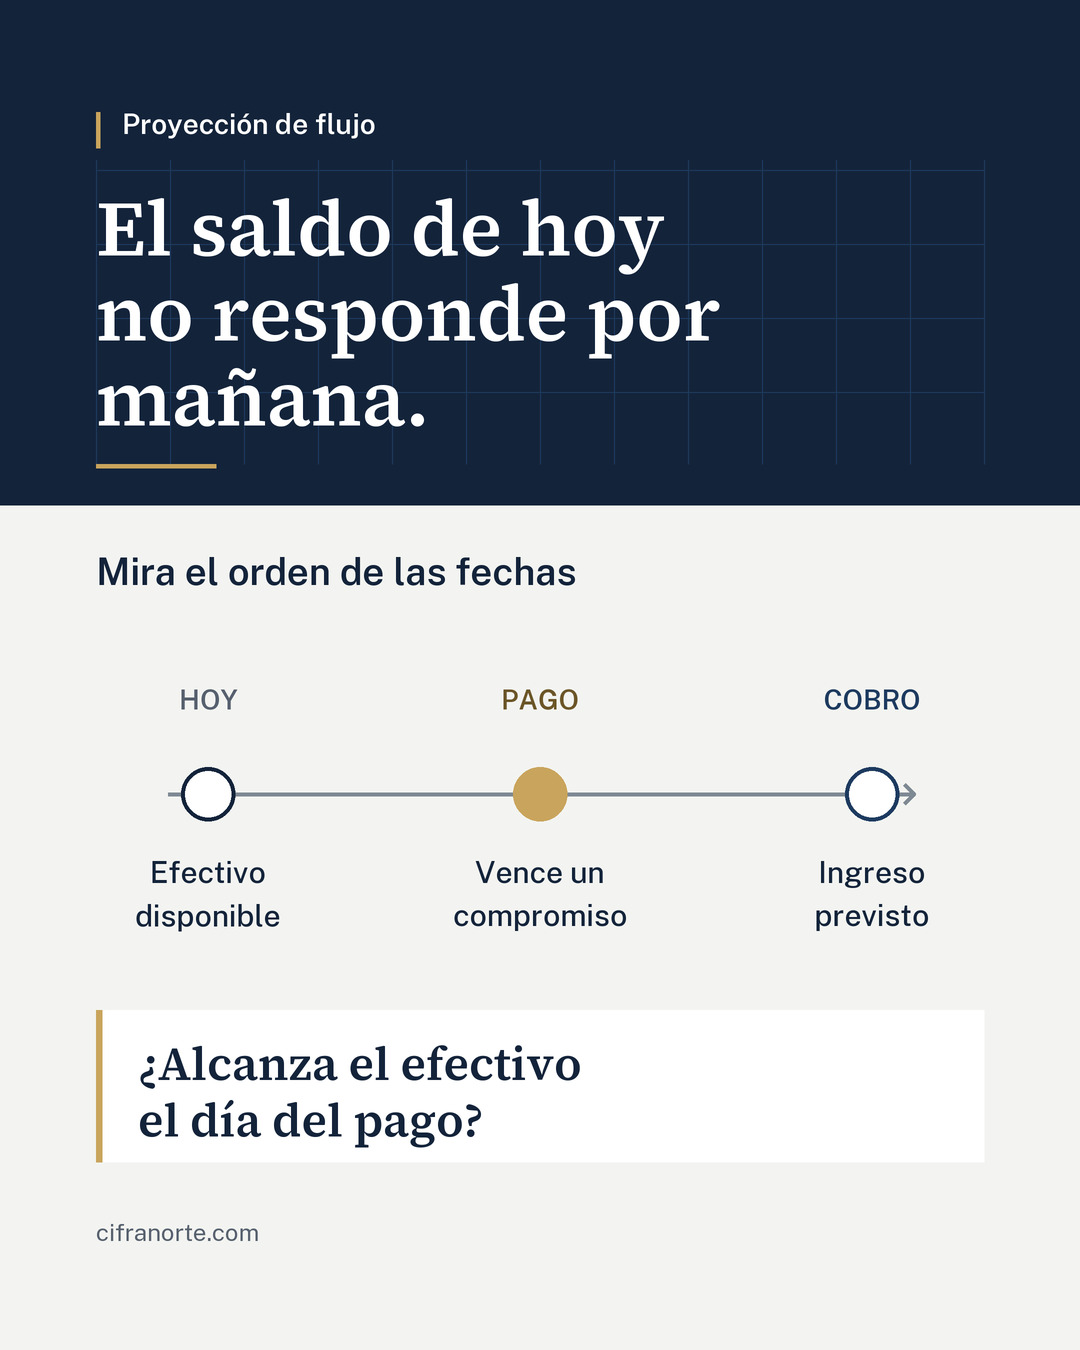
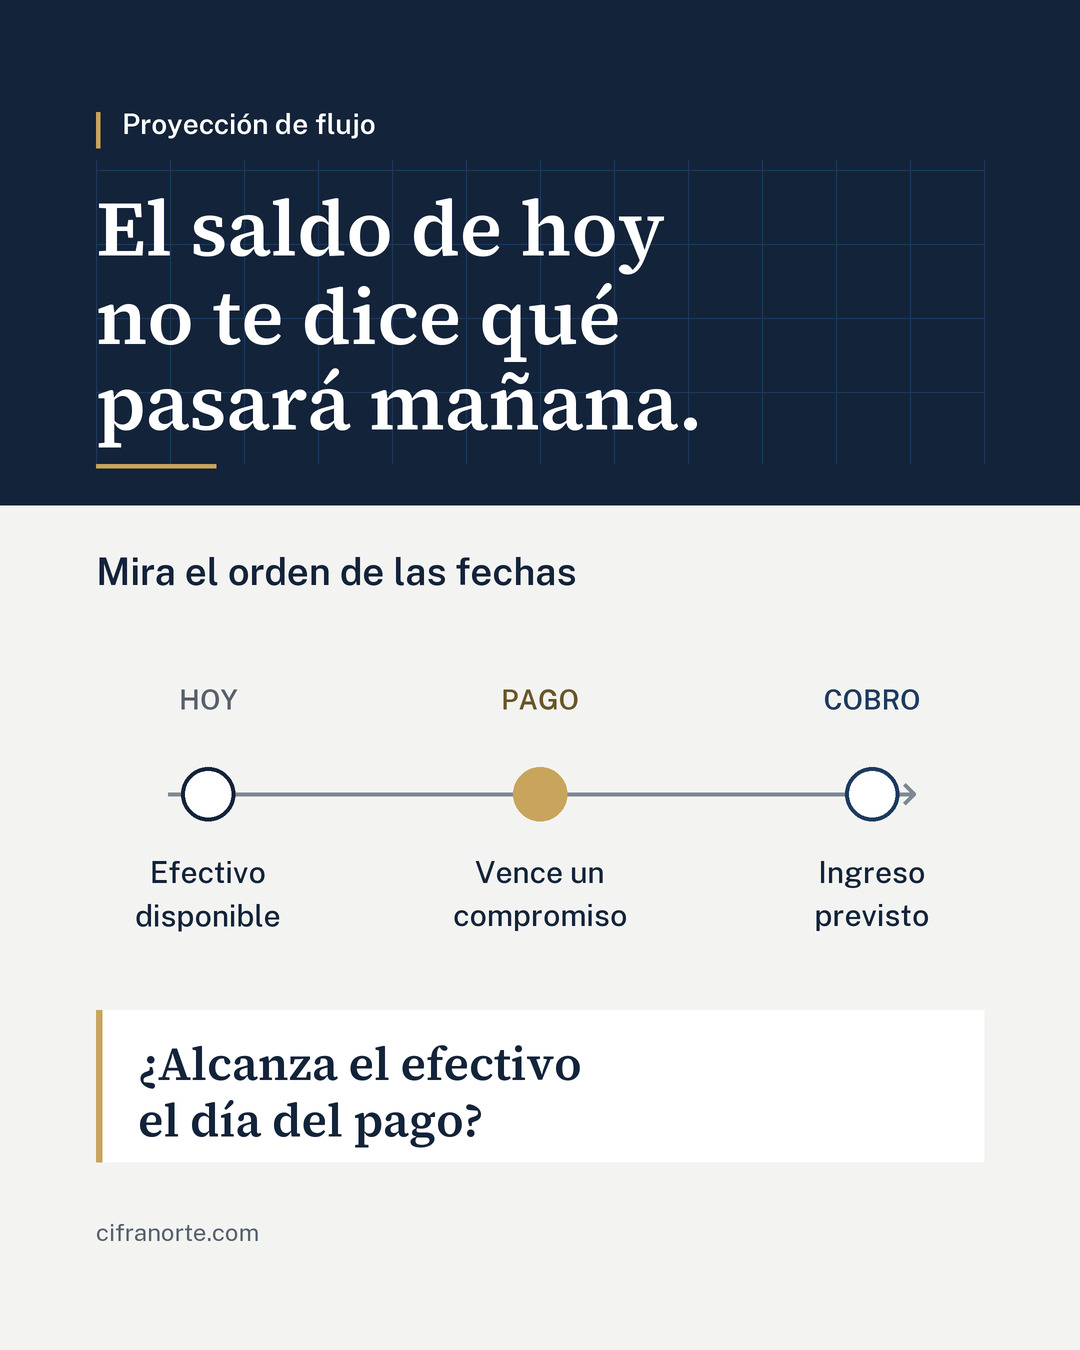
Afinar titular y apertura de IM02 Facebook tras dictamen

Changed region(s): [[0.0917, 0.1867, 0.6722, 0.3422]]

diff --git a/publicaciones/2026-10-10_facebook_IM02/REVISION.md b/publicaciones/2026-10-10_facebook_IM02/REVISION.md
@@ -50,3 +50,13 @@ Ninguna.
 **Listo para aprobación final de Hugo.** No hay correcciones necesarias. Las mejoras O1 a O4 son a criterio de Hugo; si aprueba alguna, ChatGPT la aplica y basta una comprobación breve.
 
 No modifiqué la imagen ni el copy, y no programé nada. Este dictamen no sustituye la aprobación de Hugo. Fecha editorial: 10 de octubre de 2026; horario sin aprobar.
+
+## Ajustes de claridad de ChatGPT tras el dictamen — 6 de octubre de 2026
+
+- **O1 aplicada:** el titular de `01.jpg` ahora dice «El saldo de hoy no te dice qué pasará mañana.». Conserva el sentido de que el saldo actual no anticipa los vencimientos futuros; la pregunta sobre suficiencia de efectivo el día del pago y el resto del gráfico siguen iguales.
+- **O2 aplicada:** la primera línea de `COPY.txt` ahora dice «Ver el saldo de hoy no basta para tomar las decisiones de mañana.». El resto del copy se conservó literalmente.
+- **O3 no aplicada:** el dominio ya aparece en el gráfico. Esta pieza educativa conserva una sola invitación a comentar al final del copy, sin añadir un llamado comercial.
+- **O4 no aplicada:** la retícula tenue no perjudica la lectura en la imagen ni en miniatura y mantiene continuidad visual con IM02 LinkedIn.
+- **O5:** se toma nota del posible recorte cuadrado; el titular, la línea de tiempo y la pregunta se mantienen en el área central.
+- Imagen completa y miniatura de 324 px inspeccionadas tras volver a exportar. Formato 1080 × 1350; fuentes y paleta originales, márgenes de texto ≥ 96 px, sin logo. Ningún otro texto de imagen, elemento gráfico ni párrafo del copy cambió. Archivos de texto UTF-8 sin U+FFFD.
+- **Estado:** pendiente una comprobación breve de Claude solo de O1 y O2; después Hugo dará la aprobación final y decidirá el horario. Facebook IM02 sigue sin programar.
